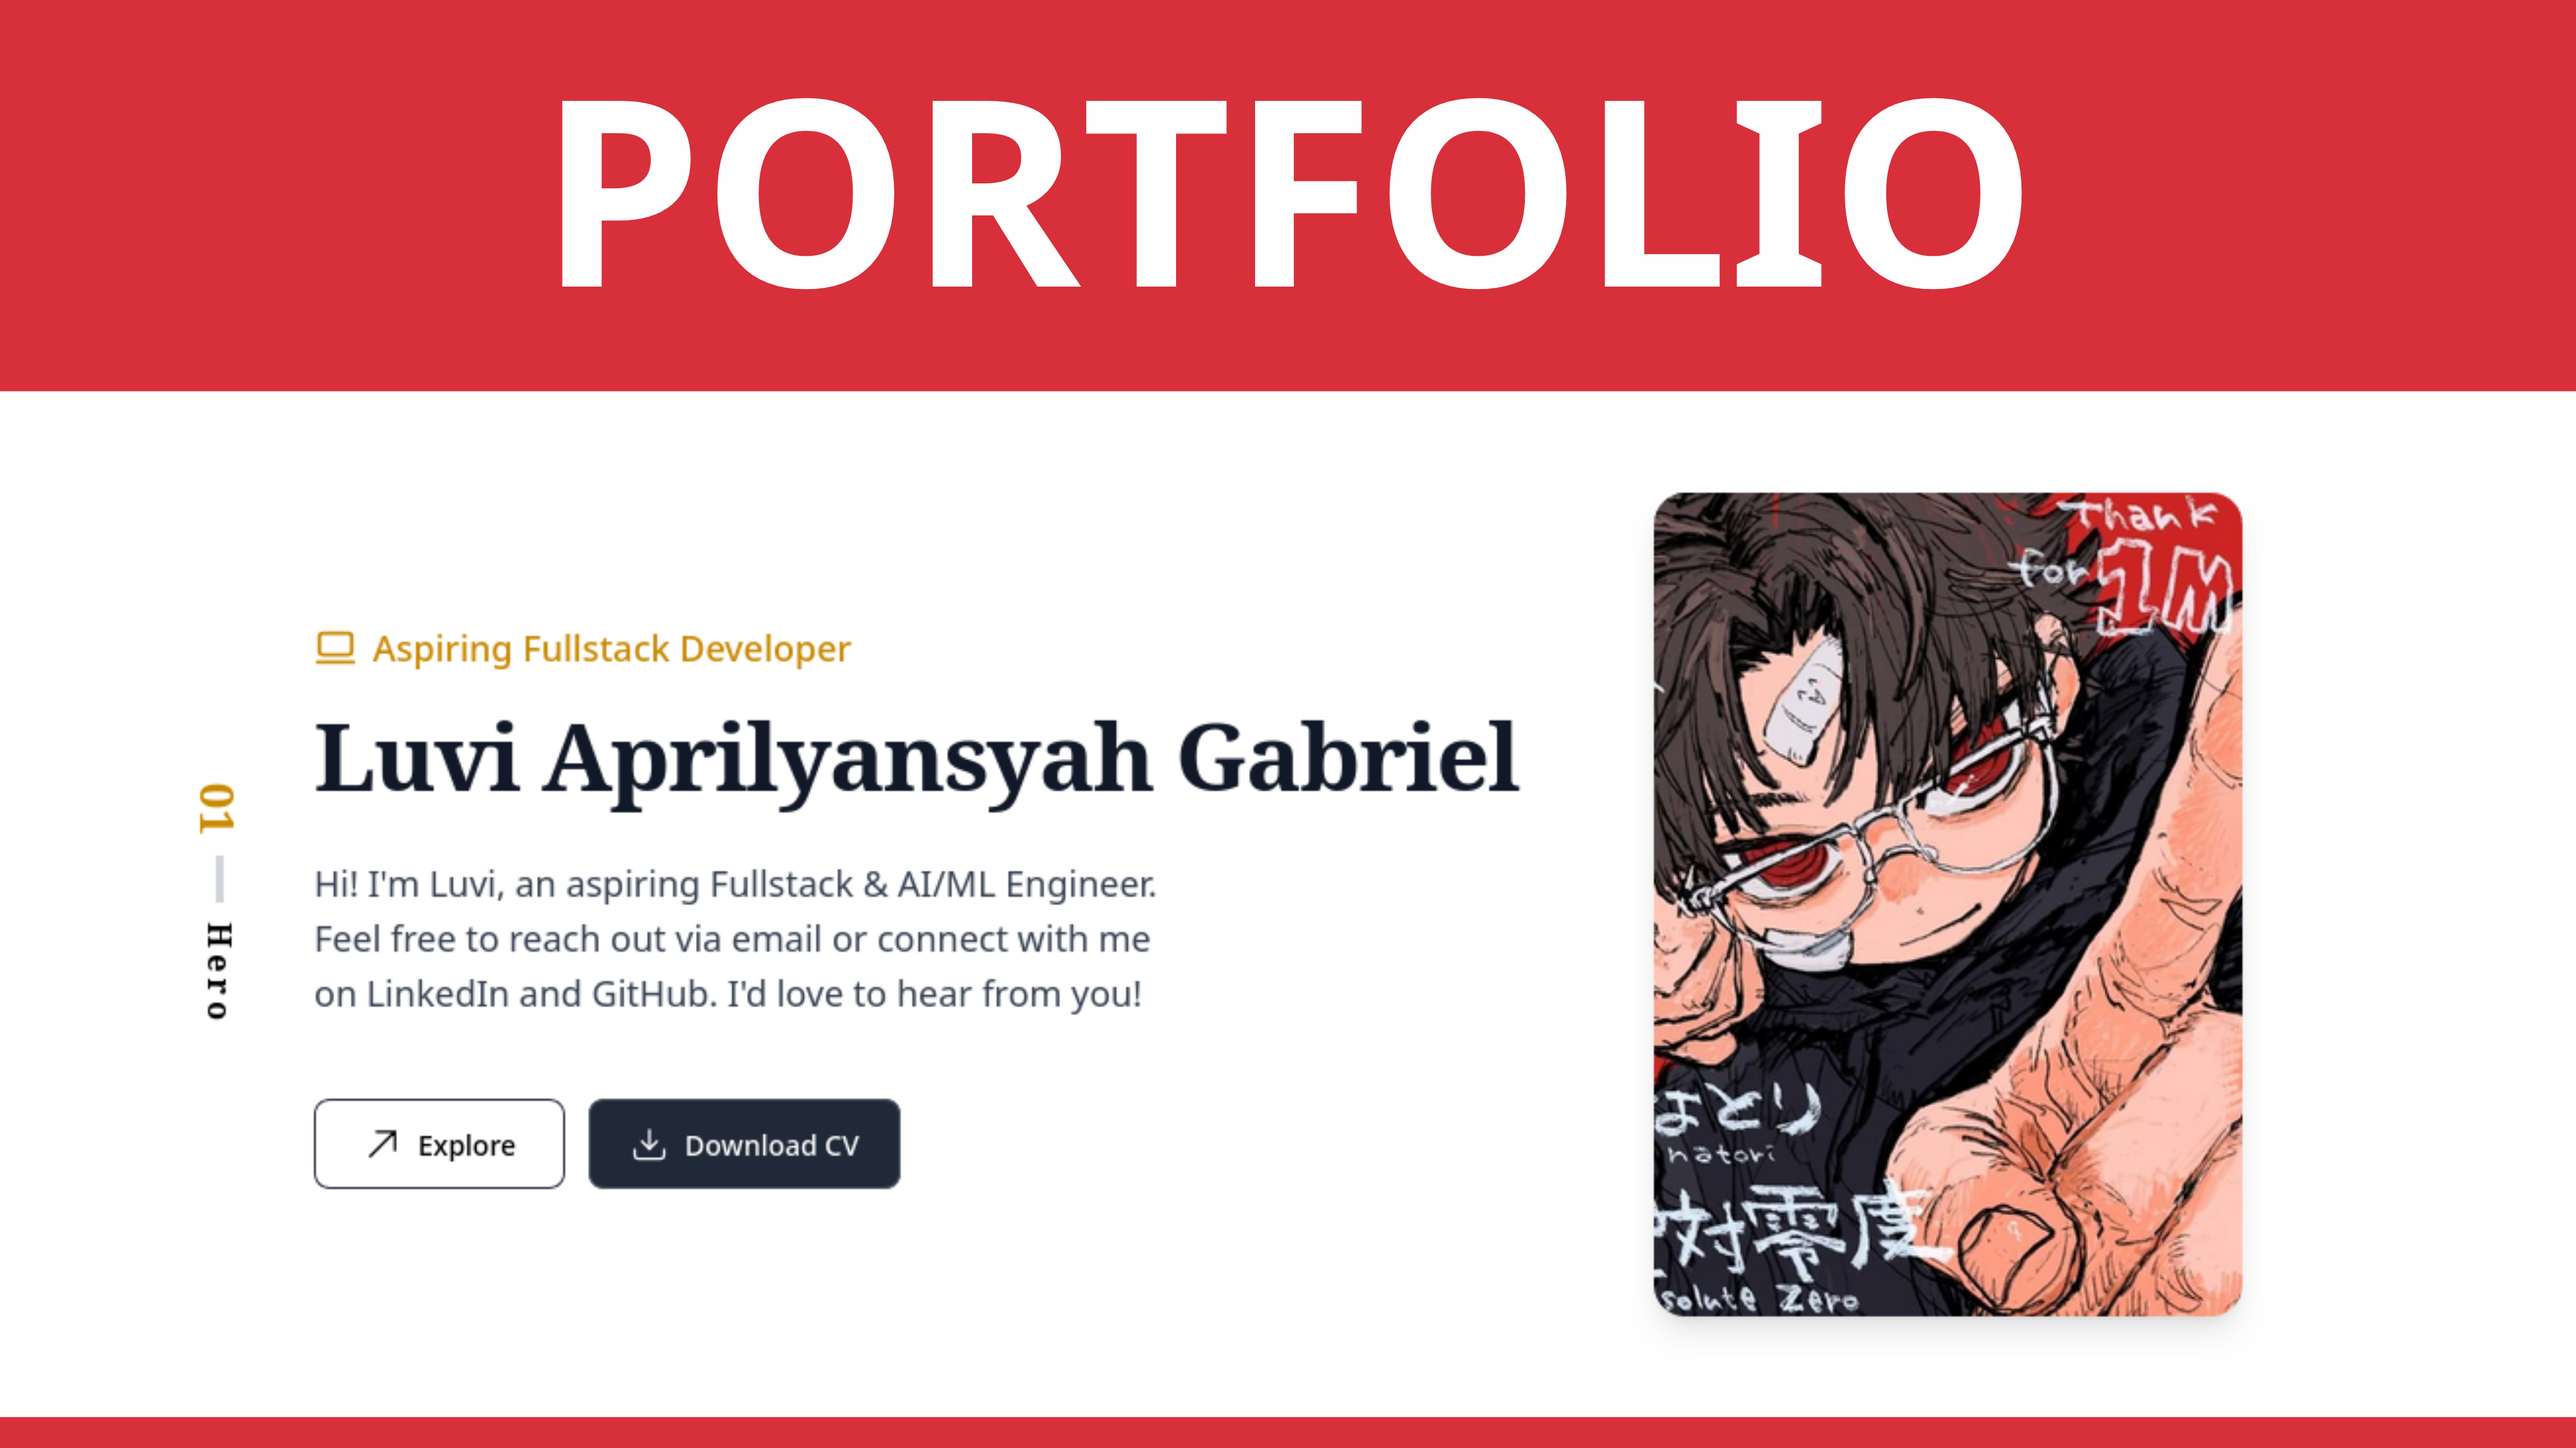
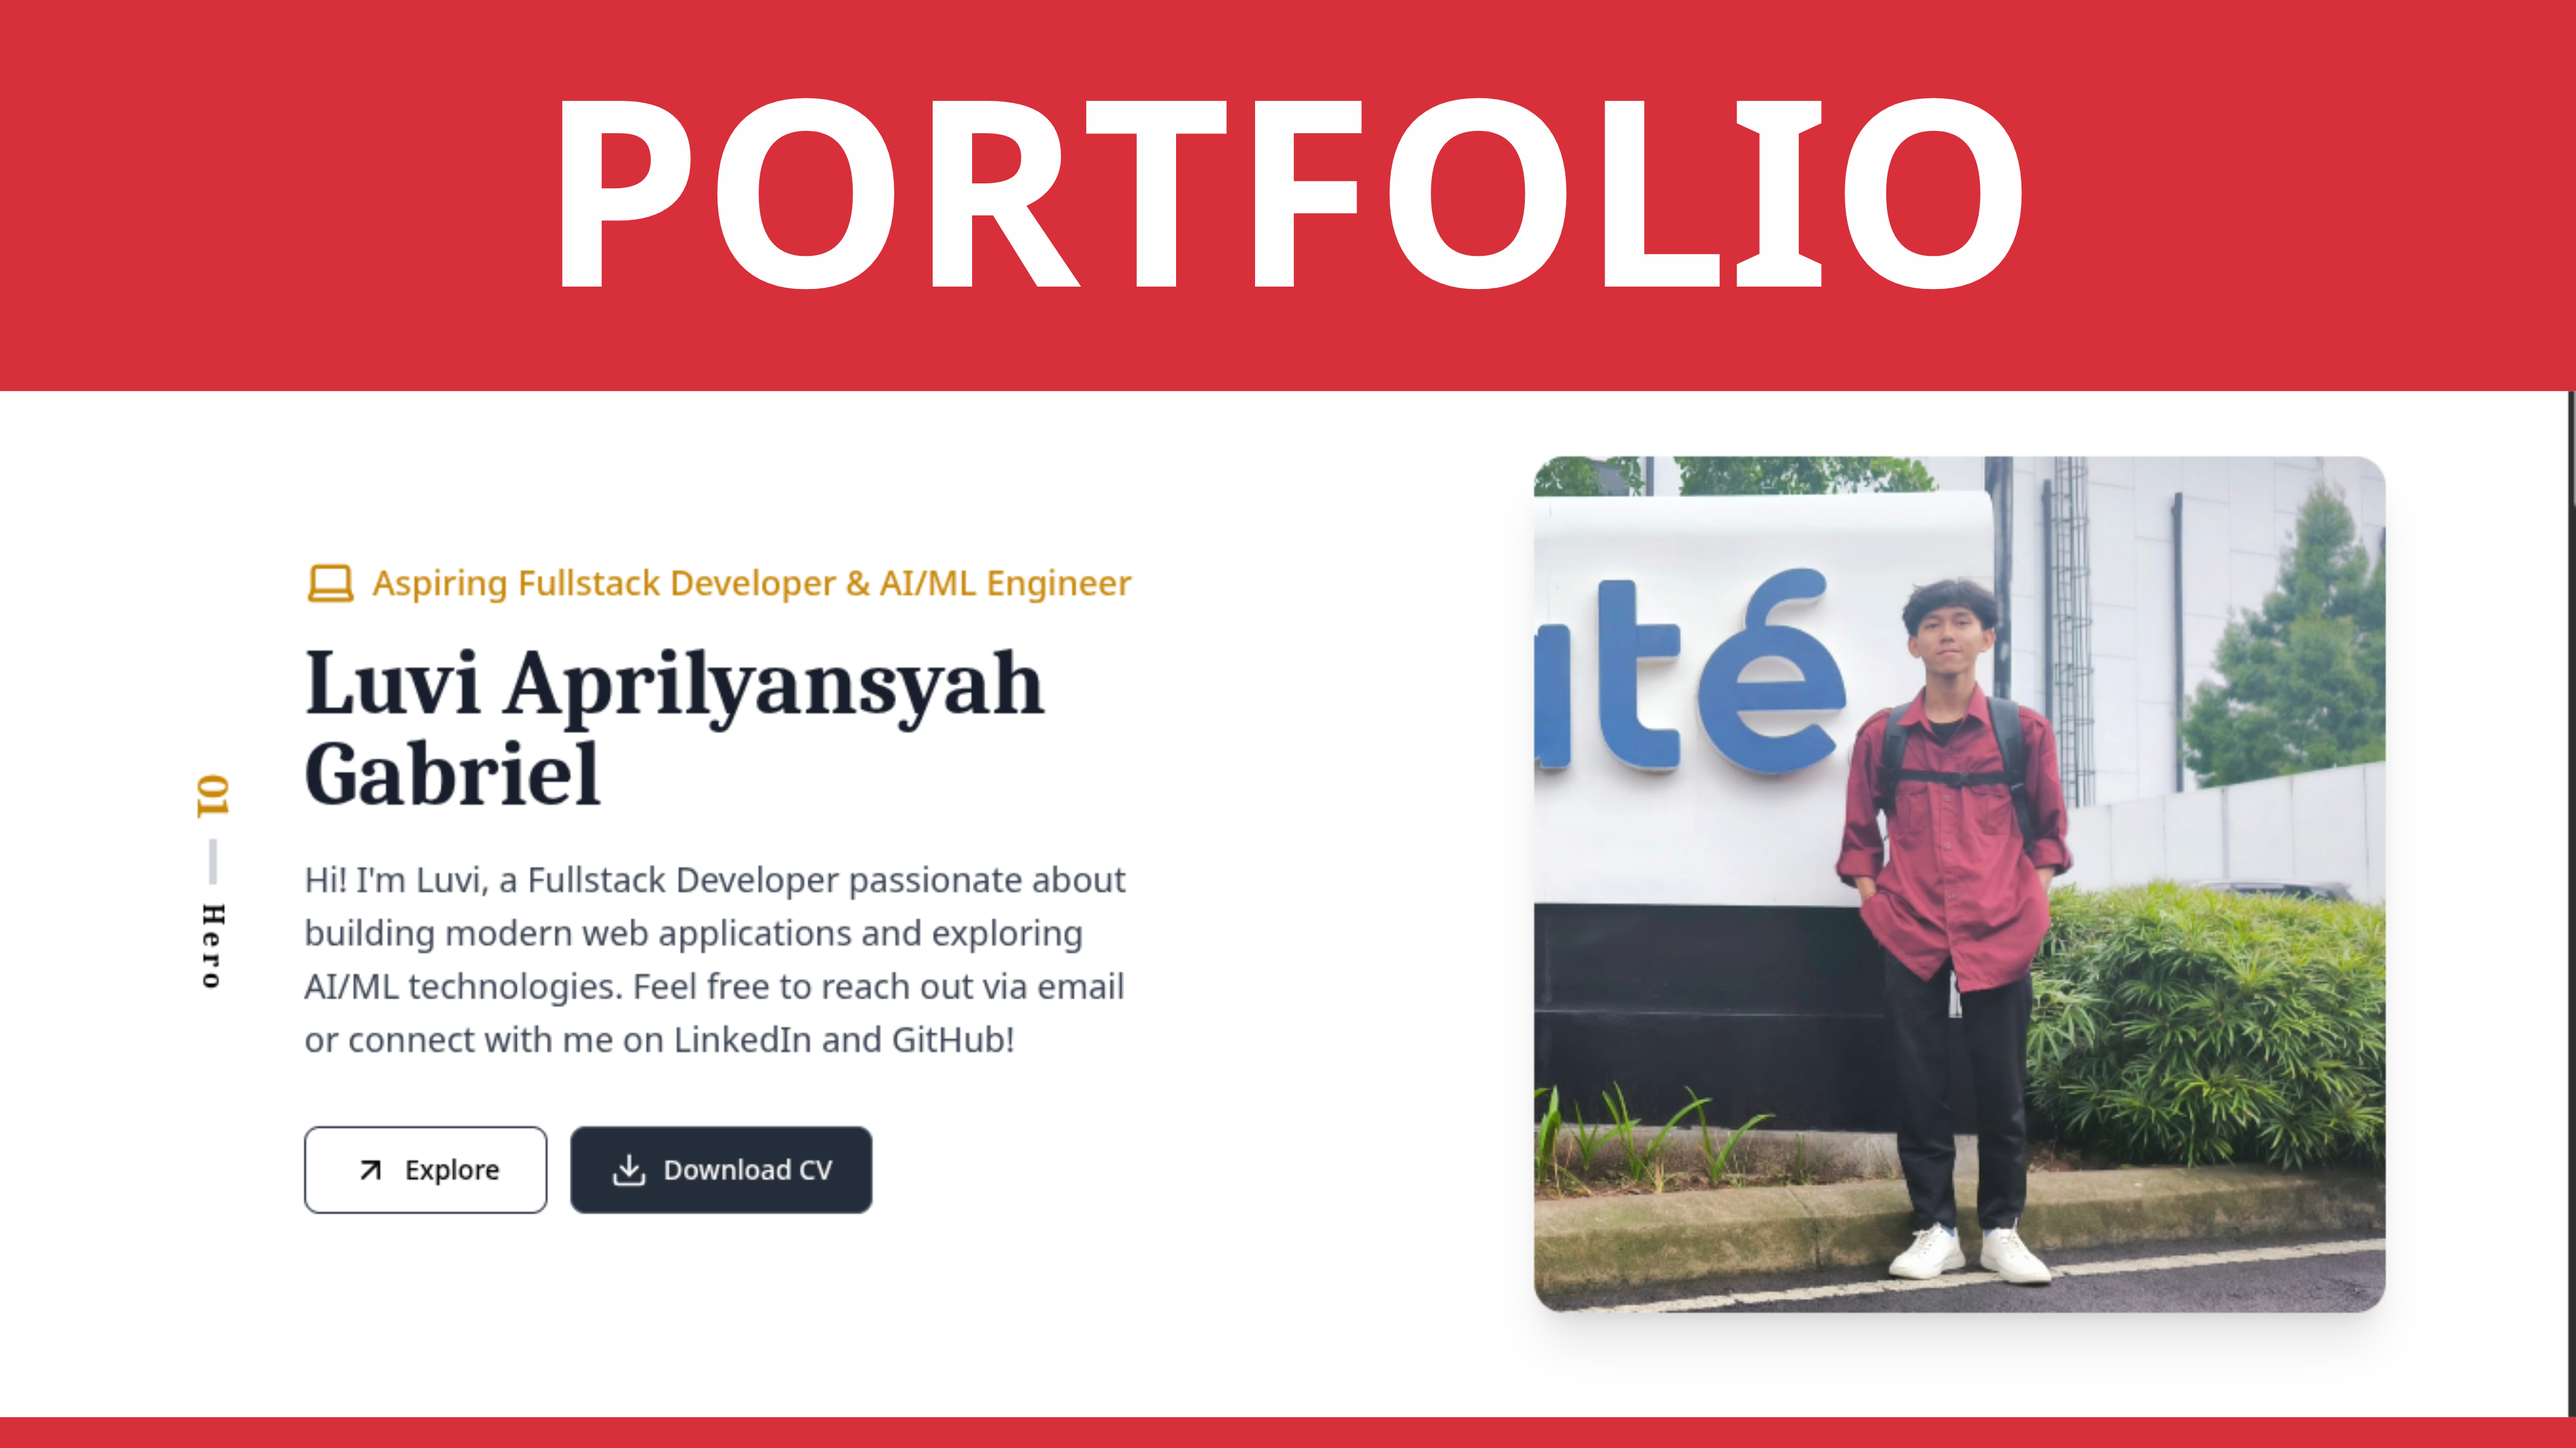
feat: Update home page
- Replaced the image with a new one.
- Changed the title and favicon.
- Added a smooth scroll to the about section.

Changed region(s): [[0.0623, 0.3125, 0.9346, 0.9375], [0.1246, 0.5938, 0.4673, 0.8438], [0.997, 0.25, 1.0, 1.0]]

diff --git a/src/pages/HeroPages.tsx b/src/pages/HeroPages.tsx
@@ -3,7 +3,7 @@ import { Sidebar } from "../components/Sidebar";
 import { Button } from "../components/Button";
 import { motion } from "framer-motion";
 import { ArrowUpRight, Download, Laptop } from "lucide-react";
-import Natori from "../../public/img/Natori.jpeg";
+import pp from "../../public/img/pp.jpeg";
 
 export const HeroPages = () => {
   return (
@@ -50,6 +50,11 @@ export const HeroPages = () => {
             transition={{ delay: 0.4, duration: 0.6 }}
           >
             <a
+              onClick={(e) => {
+                e.preventDefault();
+                const aboutSection = document.querySelector("#about");
+                aboutSection?.scrollIntoView({ behavior: "smooth" });
+              }}
               href="#about"
               className="flex items-center justify-center gap-2 px-6 py-3 text-sm font-medium border border-gray-800 rounded-lg hover:bg-gray-900 hover:text-white transition duration-300"
             >
@@ -69,9 +74,9 @@ export const HeroPages = () => {
           transition={{ duration: 0.6, delay: 0.3 }}
         >
           <motion.img
-            src={Natori}
-            alt="Luvi portrait"
-            className="w-full max-w-xs md:max-w-sm lg:max-w-md rounded-2xl shadow-xl object-cover"
+            src={pp}
+            alt="Luvi Aprilyansyah Gabriel"
+            className="w-full h-[450px] max-w-xs md:max-w-sm lg:max-w-md rounded-2xl shadow-xl object-cover"
             whileHover={{ scale: 1.03 }}
             transition={{ type: "spring", stiffness: 180, damping: 18 }}
           />

diff --git a/index.html b/index.html
@@ -1,14 +1,14 @@
-<!DOCTYPE html>
+<!doctype html>
 <html lang="en">
-  <head>
-    <meta charset="UTF-8" />
-    <link rel="icon" type="image" href="./public/Natori.jpeg" />
-    <meta name="viewport" content="width=device-width, initial-scale=1.0" />
-    <title>portfolio</title>
-    <link rel="stylesheet" href="./src/index.css" />
-  </head>
-  <body>
-    <div id="root"></div>
-    <script type="module" src="/src/main.tsx"></script>
-  </body>
+    <head>
+        <meta charset="UTF-8" />
+        <link rel="icon" type="image" href="/public/img/ai.png" />
+        <meta name="viewport" content="width=device-width, initial-scale=1.0" />
+        <title>Portfolio - Luvi Aprilyansyah Gabriel</title>
+        <link rel="stylesheet" href="./src/index.css" />
+    </head>
+    <body>
+        <div id="root"></div>
+        <script type="module" src="/src/main.tsx"></script>
+    </body>
 </html>
